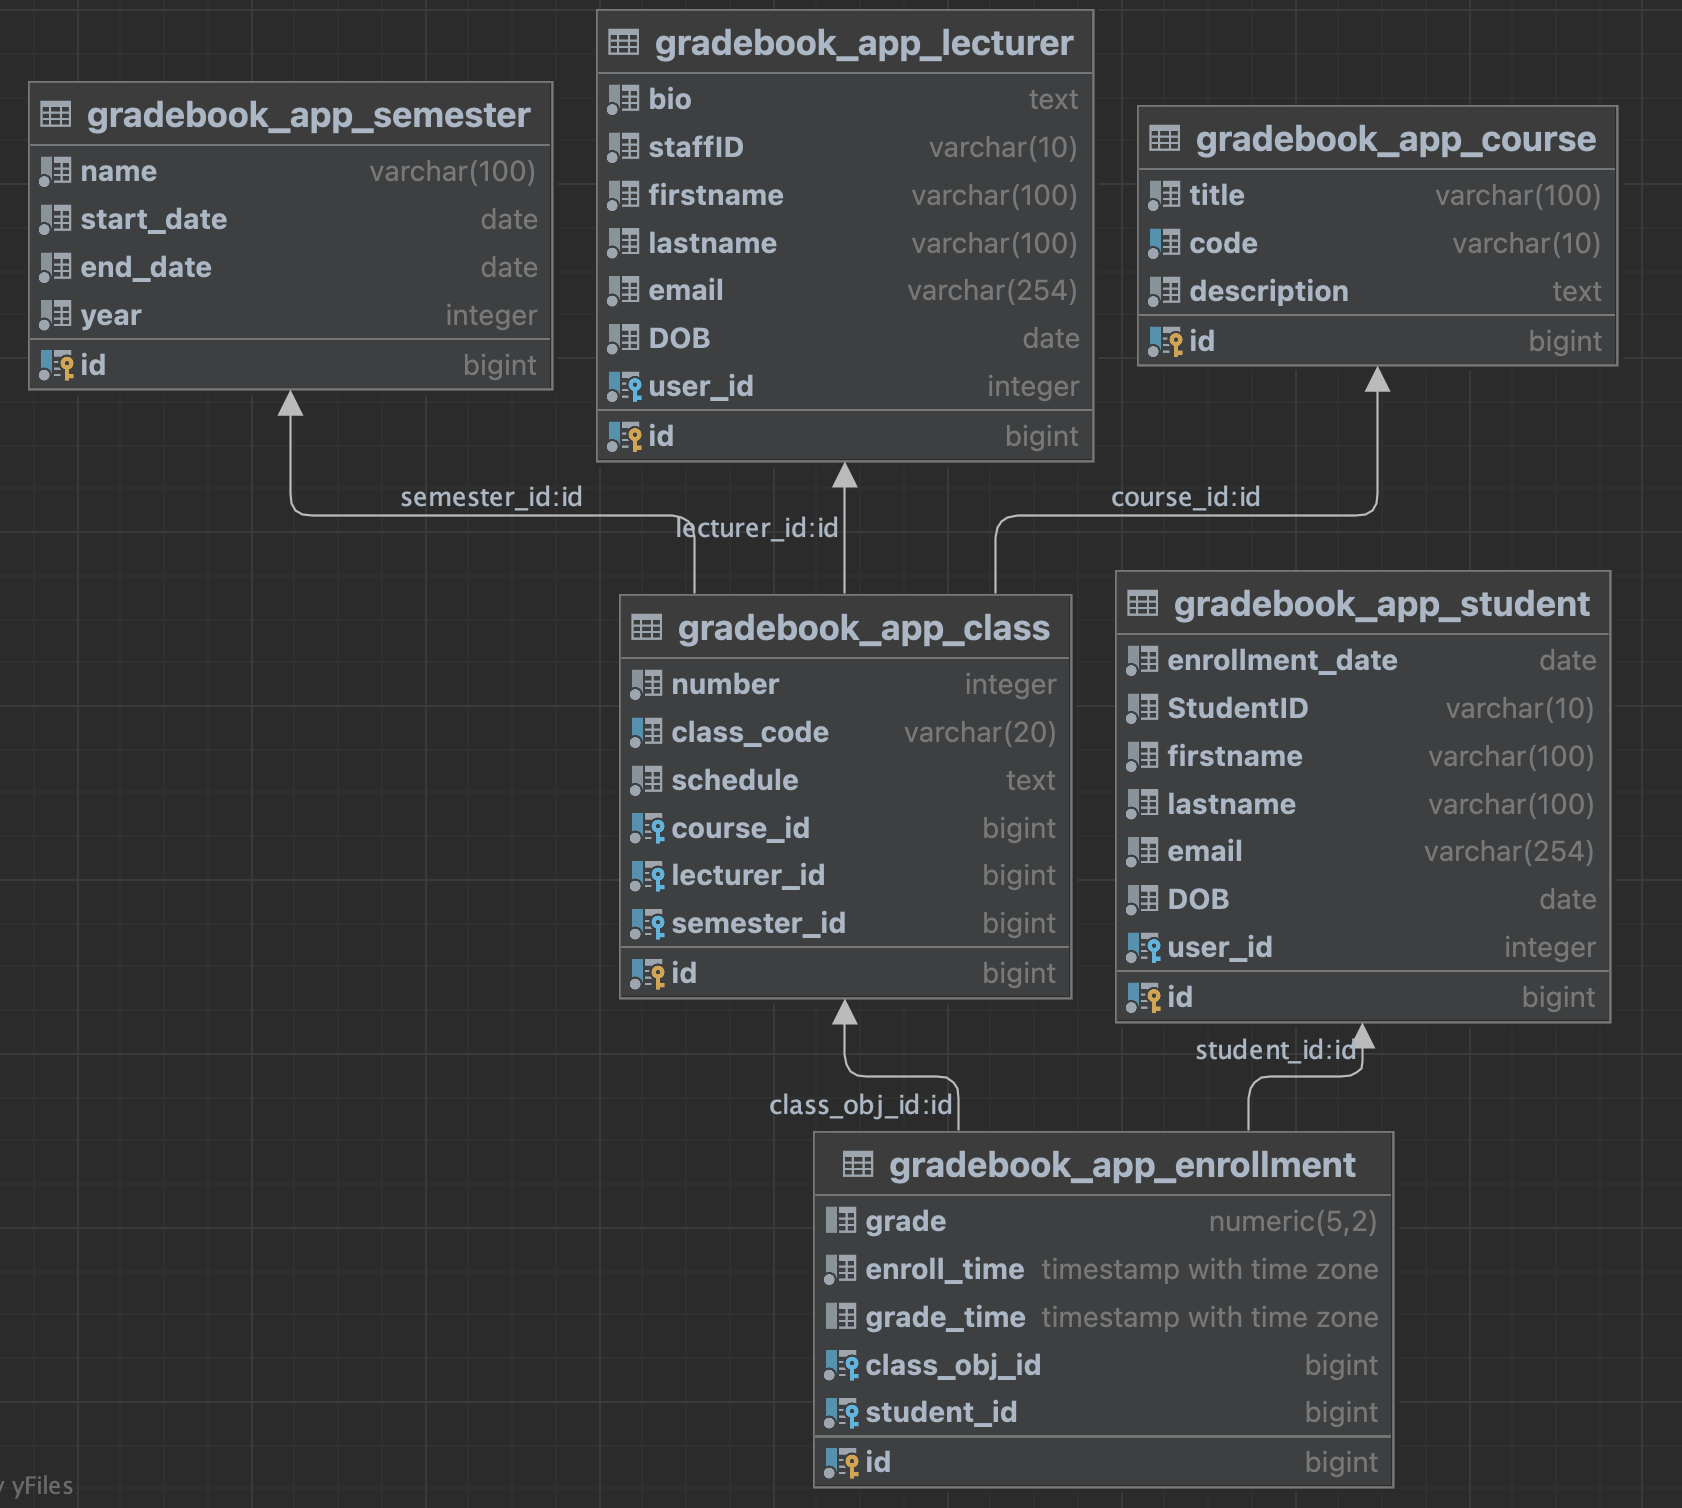
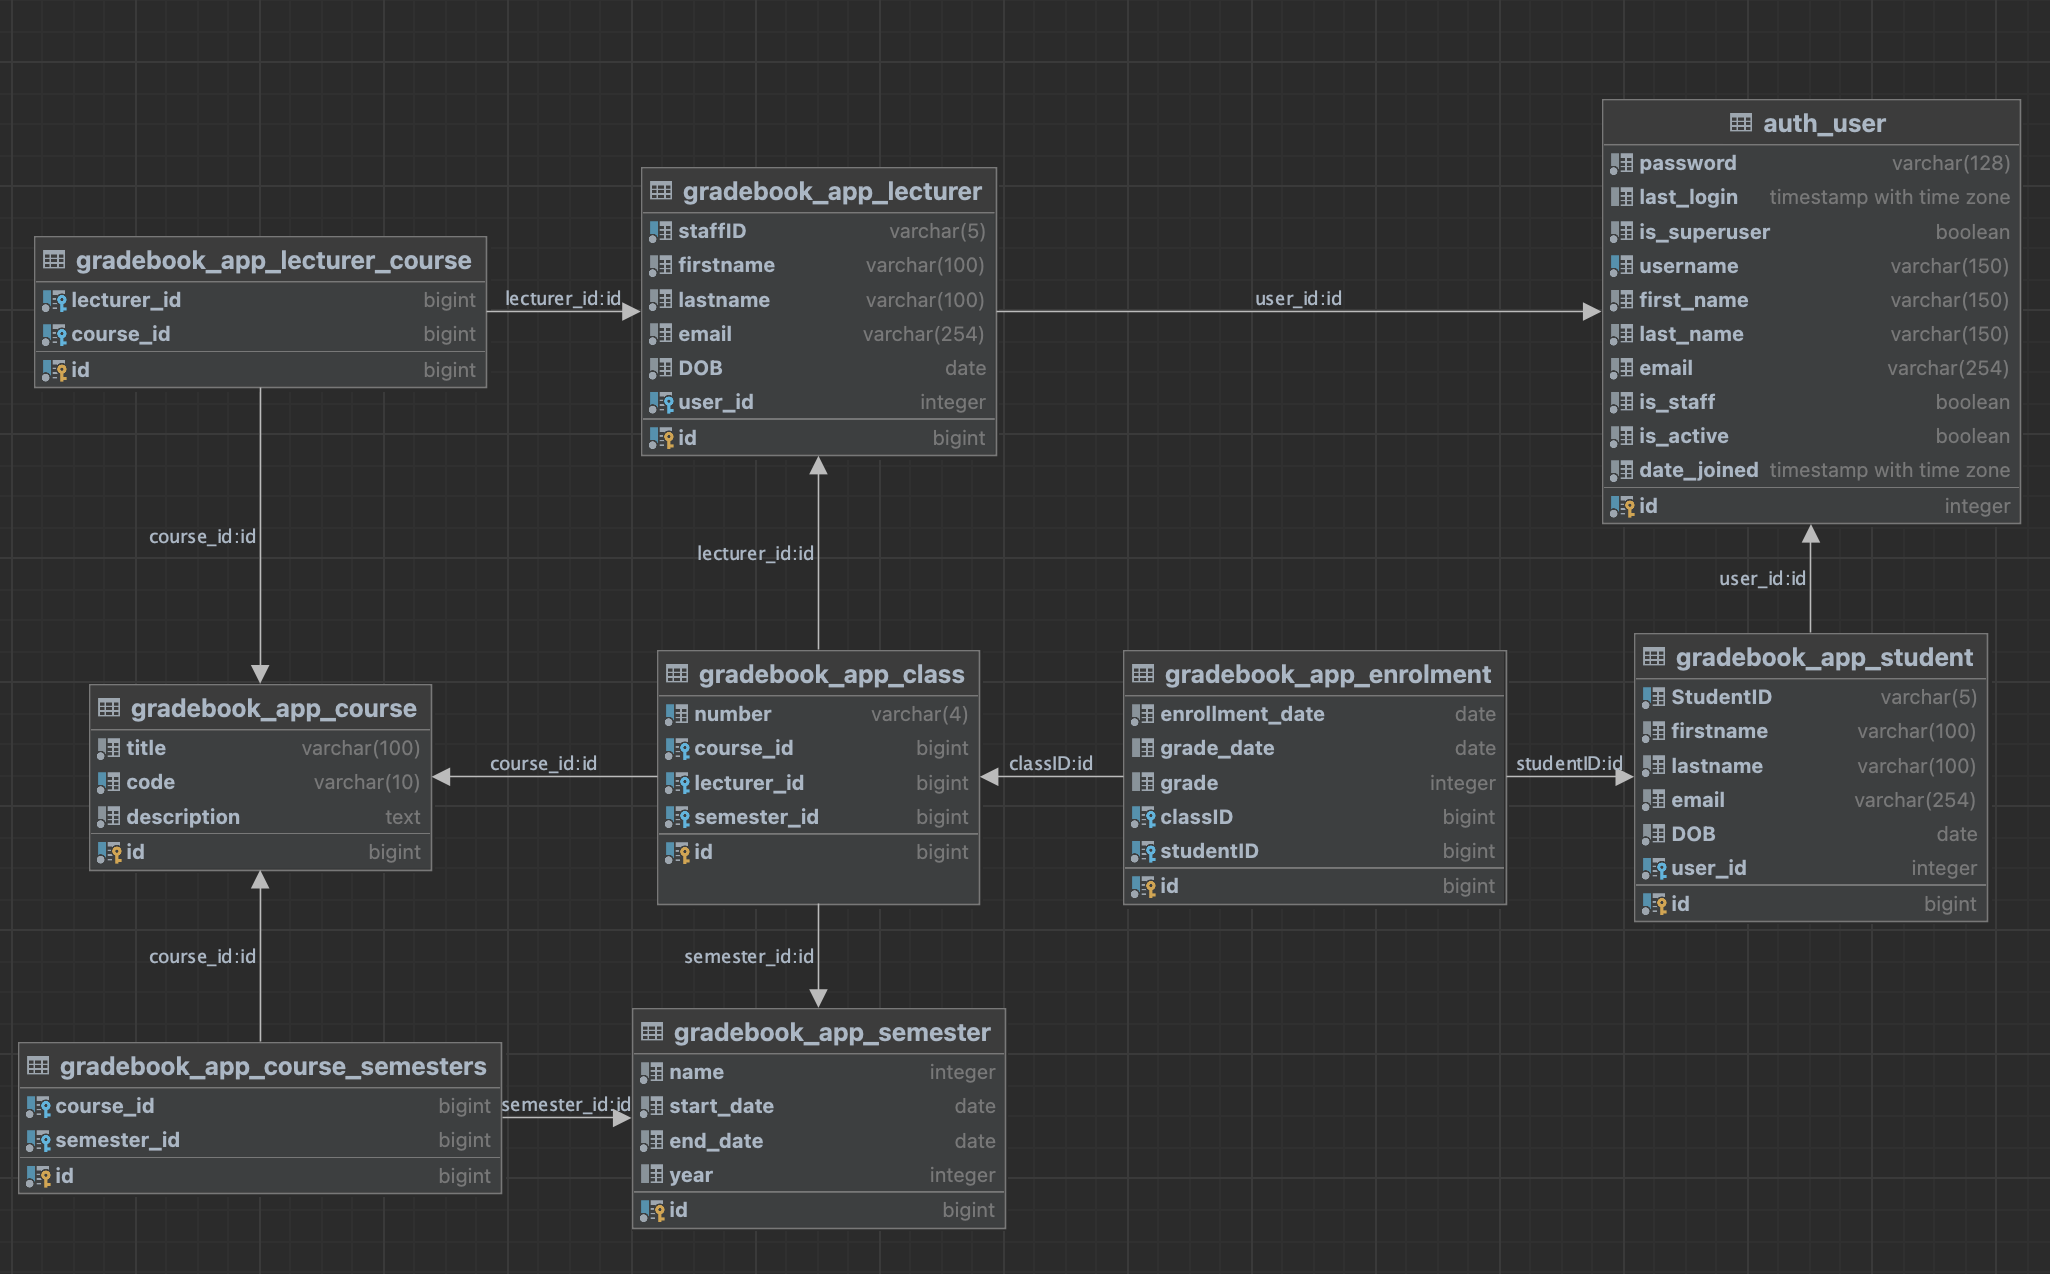
updated ERD and other docs, ready to merge into dev and main

diff --git a/Documents/Checklist.md b/Documents/Checklist.md
@@ -1,10 +1,11 @@
 [[ChatGPT]] to go to the related history link
 
 ## Task 1 - writing report
-- [x] evaluate **two programming languages** and **two data access technologies** and **present your findings** within a count of 1000 words [+/- 10%], excluding reference list.
+- [x] evaluate **two programming languages** and **two data access technologies** and **present your findings** within a count of 1000 words (+/- 10%), excluding reference list.
 - [x] Discuss the tools used in providing web-based applications.
 - [x] Design and implement a dynamic web application using a range of languages/technologies/tools.
 - [x] Discuss and evaluate the available data access technologies.
+
 
 #### Questions
 - [x]  Evaluate two web programming languages that can be used for this development.
@@ -13,37 +14,48 @@
 
 ---
 
-## Dynamic web app
-To develop the grade book system, you need to design and implement a dynamic web application using Django, SQLite and PostgreSQL available web development tools. You will also host your web application on the Doc hyper server with available add-ons. You will upload your code to GitHub. The requirements for the application are given below
+## Task 2 - Dynamic web app
+- To develop the grade book system,
+- Design and implement a dynamic web application using Django, and available web development tools.
+- Host web application on the Doc hyper server with available add-ons. 
+- Upload your code to GitHub. 
 
-Business Rules:
+### Business Rules:
+- [x] 1: One semester runs one to many courses: This is established through the `Class` model's foreign key to `Course`. (Many-to-Many relationship)
+- [x] 2: One course is run in zero to many semesters: This is established through the `Class` model's foreign key to `Course`. (Many-to-Many relationship)
+- [x] 3: One course can be separated into one to many classes: This is established through the `Class` model's foreign key to `Course`.(One-To-Many relationship)
+- [x] 4: One class can only run one course: The `Class` model's foreign key to `Course` ensures that each class is associated with only one course.(One-To-Many relationship)
+- [x] 5: One class can be taught by only one lecturer: This is established through the `Class` model's foreign key to `Lecturer`.(Zero-to-Many relationship)
+- [x] 6: One lecturer teaches zero to many classes: This relationship is established through the `Class` model's foreign key to `Lecturer`.(Zero-to-Many relationship)
+- [x] 7: One class holds one to many student’s enrollments: This is established through the `Enrollment` model's foreign key to `Class`.(Many-to-Many relationship)
+- [x] 8: One student enrolls in one to many courses: This is established through the `Enrollment` model's foreign key to `Student`.(Many-to-Many Relationship)
+- [x] 9: One enrollment fits in one class: The `Enrollment` model's foreign key to `Class` ensures this relationship. (Enrolment sits in between `Class` and `Student` as Intermediary)
+- [x] 10.One student enrollment belongs to one student: The `Enrollment` model's foreign key to `Student` ensures this relationship.
 
-- [ ] 1: One semester runs one to many courses: This is established through the `Class` model's foreign key to `Semester`.
-- [ ] 2: One course is run in zero to many semesters: This is also established through the `Class` model's foreign key to `Course`.
-- [ ] 3: One course can be separated into one to many classes: This is established through the `Class` model's foreign key to `Course`.
-- [ ] 4: One class can only run one course: The `Class` model's foreign key to `Course` ensures that each class is associated with only one course.
-- [ ] 5: One class can be taught by only one lecturer: This is established through the `Class` model's foreign key to `Lecturer`.
-- [ ] 6: One lecturer teaches zero to many classes: This relationship is established through the `Class` model's foreign key to `Lecturer`.
-- [ ] 7: One class holds one to many student’s enrollments: This is established through the `Enrollment` model's foreign key to `Class`.
-- [ ] 8: One enrollment fits in one class: The `Enrollment` model's foreign key to `Class` ensures this relationship.
-- [ ] 9: One student enrolls in one to many courses: This is established through the `Enrollment` model's foreign key to `Student`.
-- [ ] 10.One student enrollment belongs to one student: The `Enrollment` model's foreign key to `Student` ensures this relationship.
+### Client requirements:
+- [ ] 1. Administrator can create/update/delete/show semesters. 
+- [ ] 2. Administrator can create/update/delete/show courses. 
+- [ ] 3. Administrator can create/update/delete/show classes. 
+- [ ] 4. Administrator can create/update/delete/show lecturers. 
+- [ ] 5. Administrator can assign/remove/change/show a lecturer to a class. 
+- [ ] 6. Administrator can create/update/delete/show student 
+- [ ] 7. Administrator can enrol/remove/show student to classes. 
+- [ ] 8. Administrator can upload students from excel files to the website 
+- [ ] 9. The system can email students when their marks are ready 
+- [ ] 10. Lecturer can login to the gradebook 
+- [ ] 11. Lectures can enter students’ marks in the gradebook 
+- [ ] 12. Students can login to the gradebook 
+- [ ] 13. Students can view their marks in the gradebook.
 
-Client requirements:
-
-- [ ] 1-7, 9: These requirements can be implemented using Django's built-in CRUD views and forms based on the current models. 
-- [ ] 8: Administrator can upload students from excel files to the website: This requirement will need a custom view and form to handle file uploads, parsing, and creation of `Student` instances. 
-- [ ] 10-13: These requirements involve creating authentication and authorization systems for lecturers and students, and displaying their respective data based on the user type.
-
-In conclusion, the current models.py is well-designed to accommodate the business rules and client requirements. As you proceed to implement the views and templates, you may need to make some adjustments to the models, but this will largely depend on the specifics of your implementation.
+---
+## Checklist
 
 **Part A – Models [36 marks]**
-- [ ] Follow the given class diagram to create models
-- [ ] Note: Many to many relationships are not shown in the class diagram, please figure out where you will use many to many relationships.
+- [x] Follow the given class diagram to create models
+- [x] Note: Many to many relationships are not shown in the class diagram, please figure out where you will use many to many relationships.
 - [ ] CRUD, such as, email student, read excel file and so on
-- [ ] Encouraged to use better models
-![[models_diagram_sample.png]]
-
+- [x] Encouraged to use better models
+![ERD](ERD)
 
 **Part B: Views [34 marks]**
 
@@ -79,7 +91,8 @@ In conclusion, the current models.py is well-designed to accommodate the busines
    - to specify the python version for deployment
    - for example, if your application requires Python 3.8.x, you would create a `runtime.txt` file containing the following text:`python-3.8.x`
 
-
+---
+## Marking Criteria
 | Task                  | Maximum marks |
 | --------------------- | ------------- |
 | Technology Evaluation | 16            |

diff --git a/Documents/Developer_Journal.md b/Documents/Developer_Journal.md
@@ -7,15 +7,15 @@ started seting up the project and Create [README](../README.md)
 March 24th 2023 - started working on models.py, done a fiew steps
 
 1. developped models.py
- - 5  entities created according to [improvement 1](./models.py.md#improvement1) and [ERD](./ERD.png) apart from `enrolment`
+ - 5  entities created apart from `enrolment`
 
 2. Updated models.py
- - 10 entities now according to [improvement 2](./models.py.md#improvement2)
+ - 10 entities now added
  - it will be added the future development, for now keep the models.py simple only meeting the requirements of the assignment.
 
 ---
 March 25th 2023 @10:00pm 
-- improved the models.py again according to [improvement 3](./models.py.md#improvement3)
+- improved the models.py again 
 - also created forms.py according to `forms.py`
 - developped `Generic Views` for CRUD
 
@@ -79,6 +79,11 @@ Apr 13-16 2023 - development on bug/relationship
 - database issue sorted (drop, recreate, migrate)
 - admin can enter/view marks for students in a class
 
+---
+Apr 19 2023 @9:00am
+
+
+---
 To be built
 - Uploading students from excel files.
 - Emailing students when their marks are ready.

diff --git a/README.md b/README.md
@@ -36,6 +36,8 @@ sudo lsof -t -i tcp:8000
 - [x] Generic Views and templates for 'Semester'
 - [x] Use Django's generic views and forms to handle CRUD operations for [Admin panel](https://docs.djangoproject.com/en/4.2/ref/contrib/admin/)
 
+**after this development, can use similar implementations for other models**
+
 ---
 ## Wireframes
 - [x] Once the models.py is developed, draw UI and pages to continue the project development.Similar UI for other tables (classes)

diff --git a/Documents/VSCode_Setup.md b/Documents/VSCode_Setup.md
@@ -25,4 +25,4 @@ git commit -m "Initial commit"
 ```
 ==above step is for VS Code, if using PyCharm, create a project alongside an app==
 
-if using Pycharm, go back to [[assignment_1/README]]
+if using Pycharm, go back to [READEME](README)
